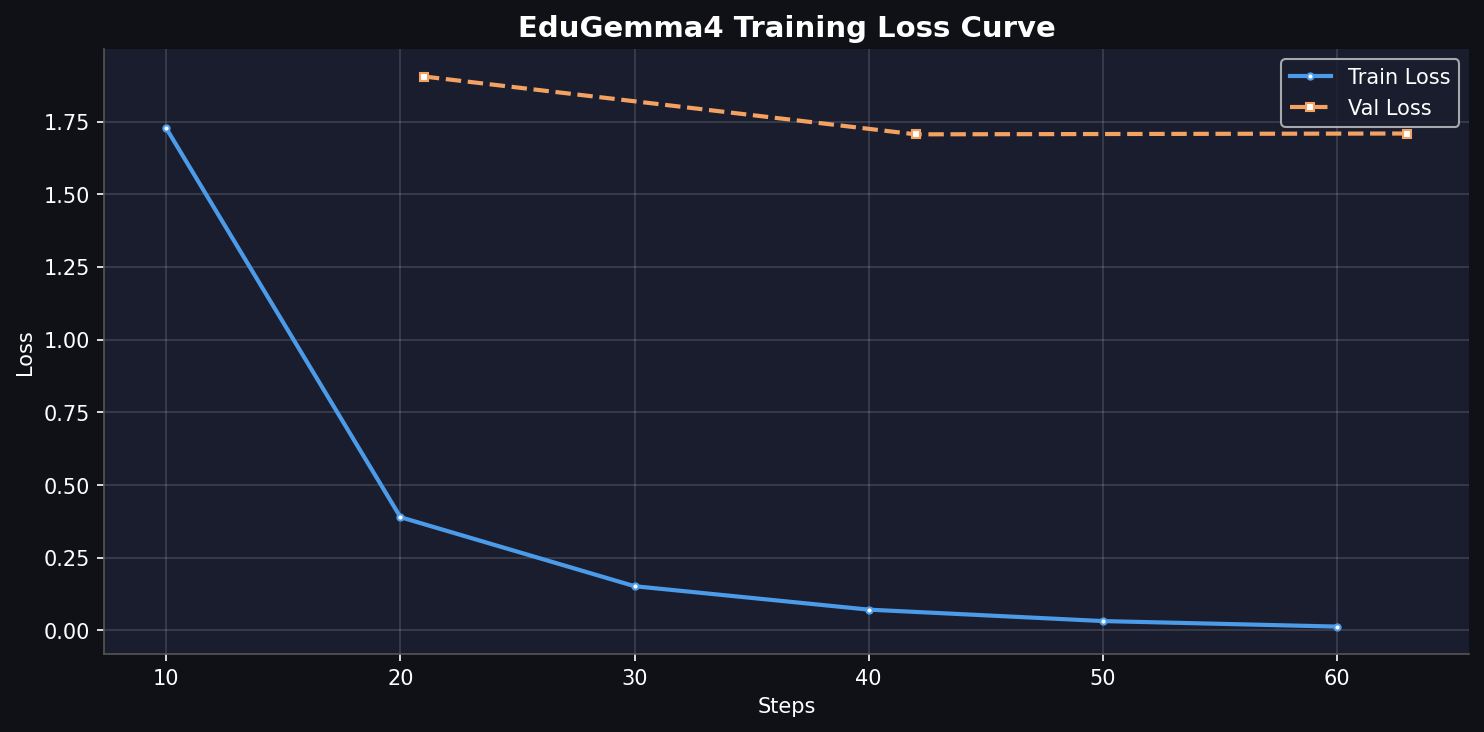
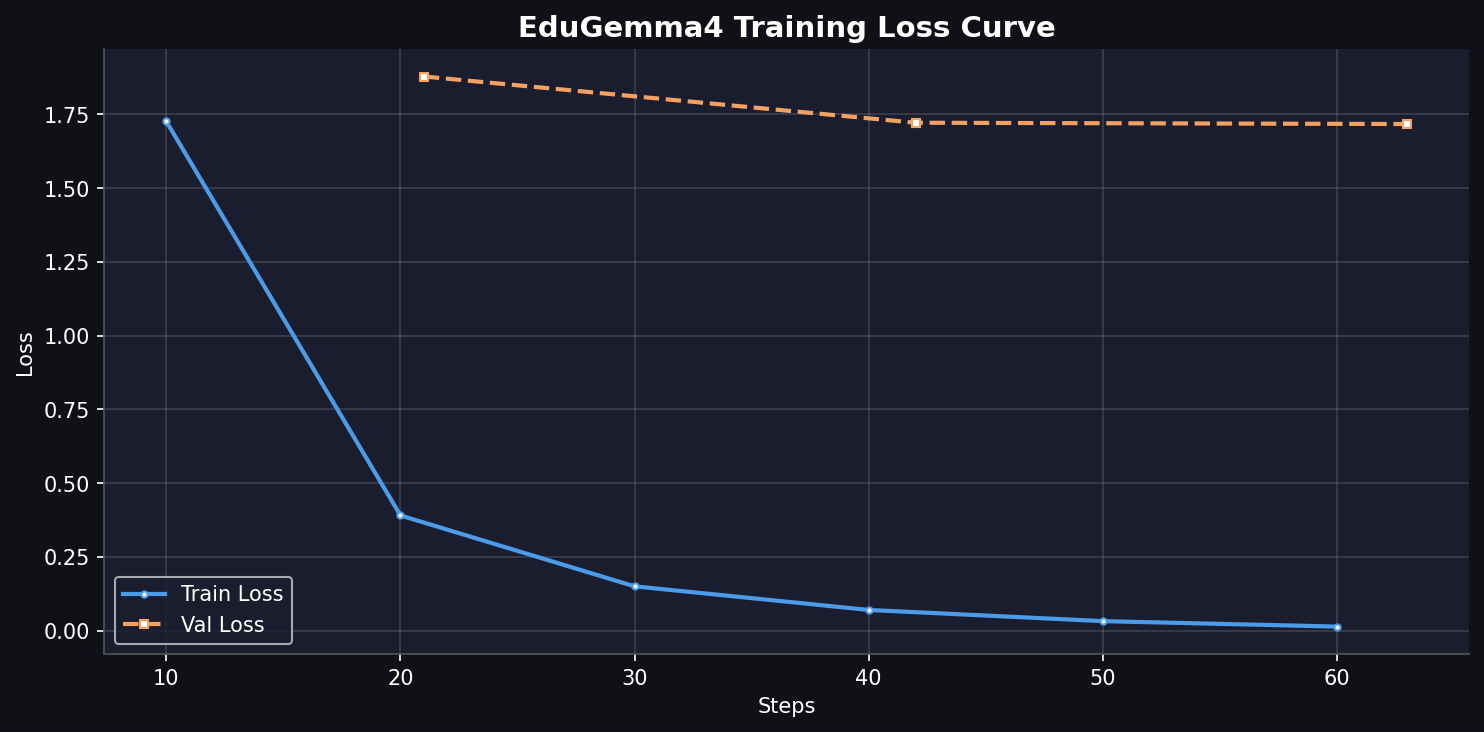
feat: Add fine-tuning results | loss=0.0135

diff --git a/logs/TRAINING_SUMMARY.md b/logs/TRAINING_SUMMARY.md
@@ -7,9 +7,8 @@
 | LoRA Alpha | 32 |
 | Epochs | 3 |
 | Learning Rate | 0.0002 |
-| Final Train Loss | 0.0133 |
-| Best Val Loss | 1.7059475183486938 |
+| Final Train Loss | 0.0135 |
+| Best Val Loss | 1.7176637649536133 |
 | HuggingFace | https://huggingface.co/kasi-ranaweera/edulm-gemma4-e4b-lora |
  
 ![Loss Curve](loss_curve.png)
-